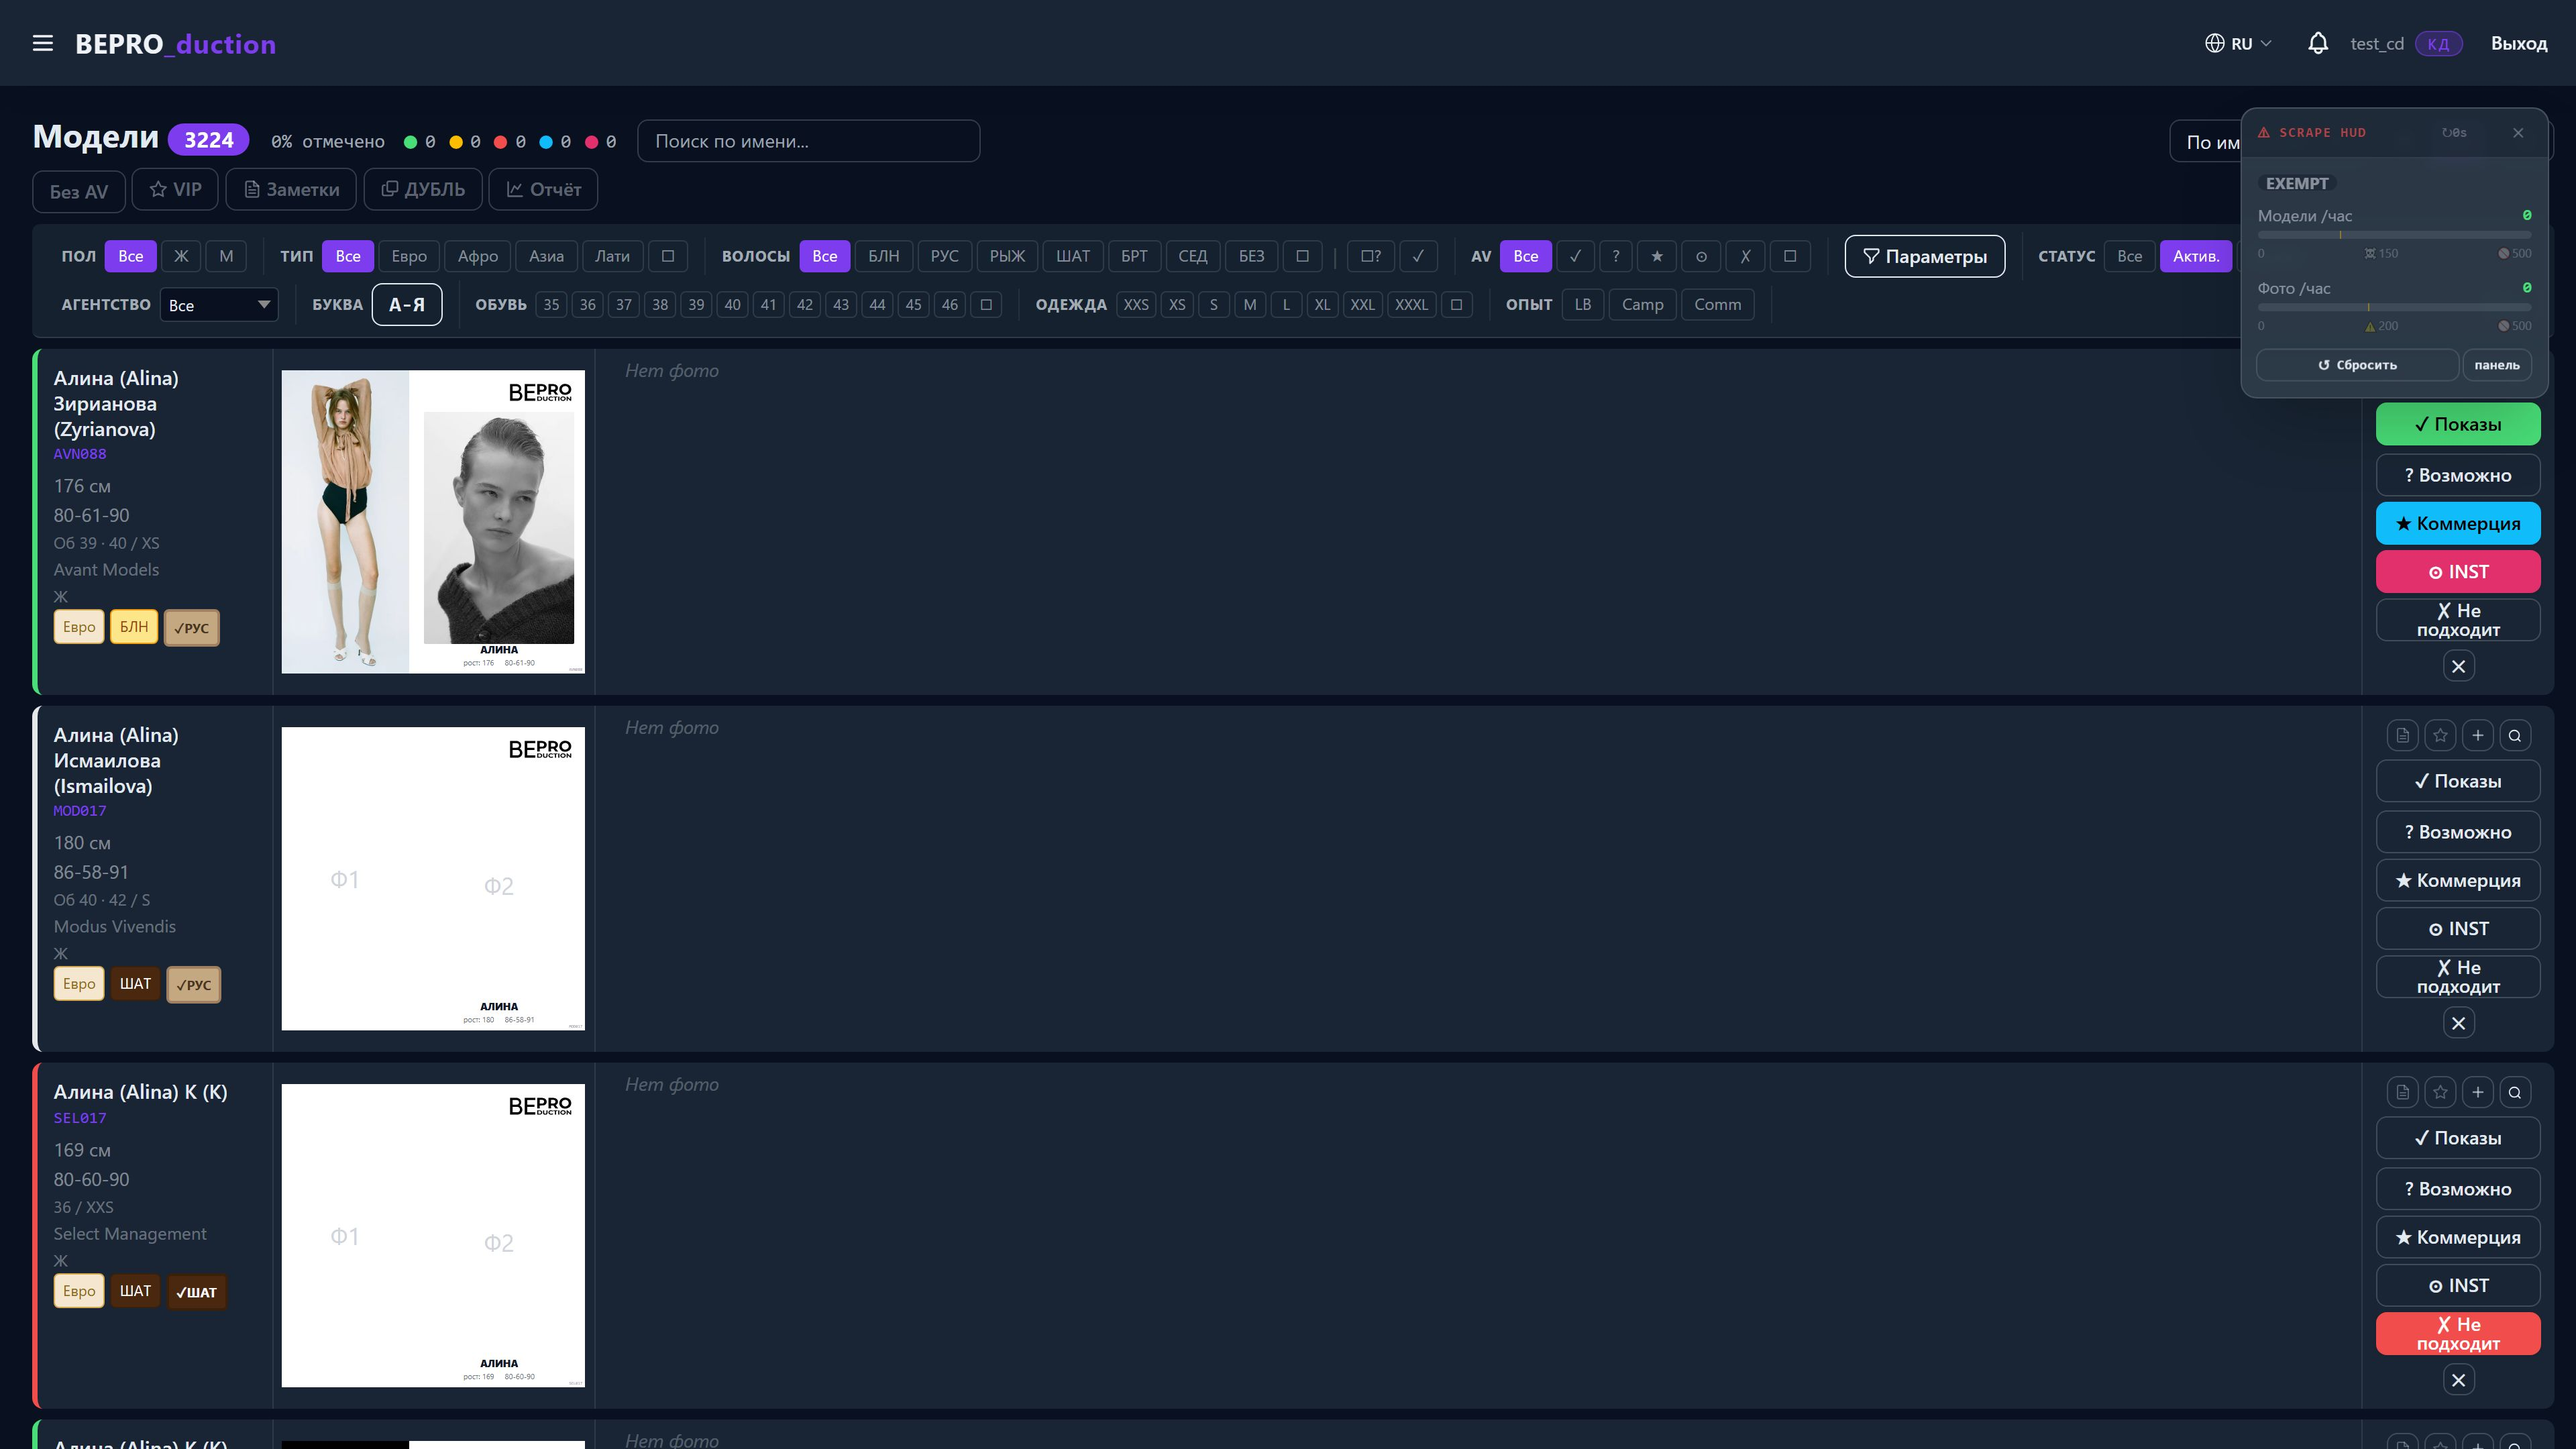
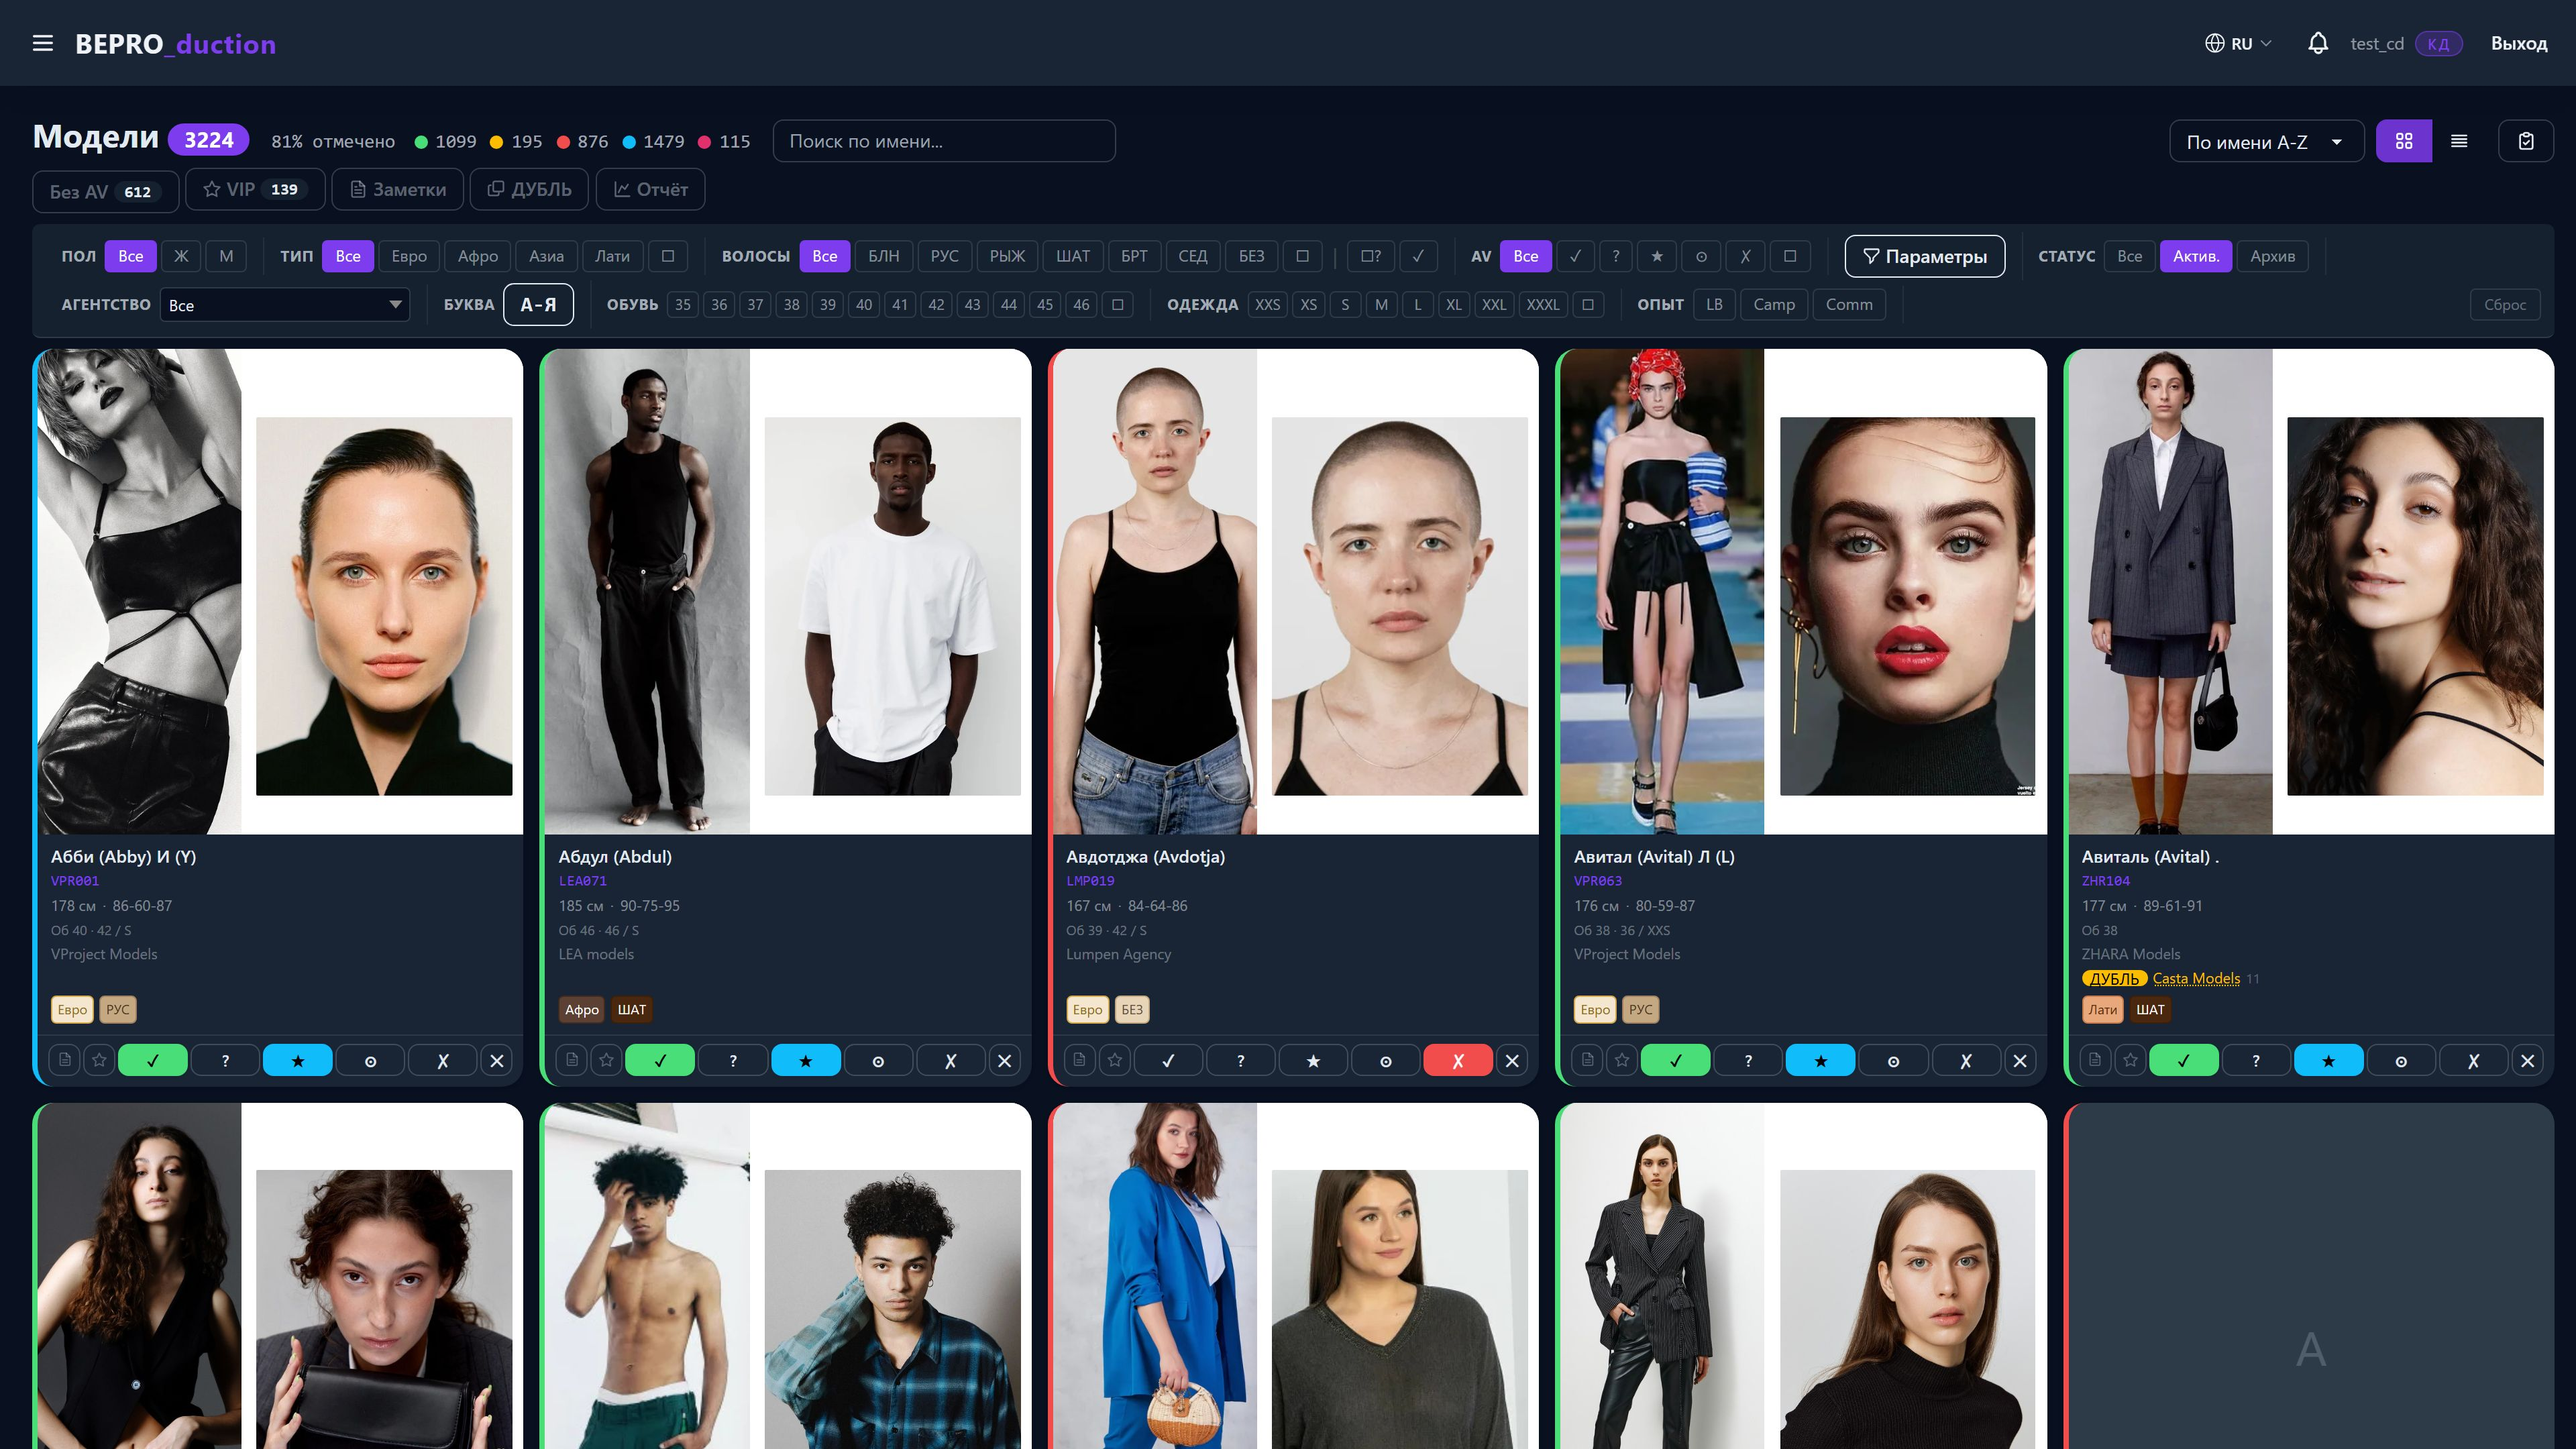
Grid view screenshots for models catalog, use CD view as main
- Switch to grid/tile view (composites visible)
- Main catalog slide uses CD screenshot
- Fix .nojekyll for _common folder

diff --git a/speaker_book.html b/speaker_book.html
@@ -428,9 +428,9 @@
     <li>Фото-портфолио каждой модели (до 20 снимков)</li>
   </ul>
   <div class="screenshot-container">
-    <img src="screenshots/superadmin/models.jpg" alt="Каталог моделей">
+    <img src="screenshots/casting_director/models.jpg" alt="Каталог моделей">
   </div>
-  <p class="screenshot-label">Каталог моделей с фильтрацией — интерфейс суперадмина</p>
+  <p class="screenshot-label">Каталог моделей — grid view из кабинета кастинг-директора</p>
   <div class="page-number">4</div>
 </div>
 

diff --git a/client_slides.html b/client_slides.html
@@ -497,7 +497,7 @@
     </div>
     <div class="visual">
       <div class="screenshot-wrap">
-        <img src="screenshots/superadmin/models.jpg" alt="Models catalog">
+        <img src="screenshots/casting_director/models.jpg" alt="Models catalog">
       </div>
     </div>
   </div>
